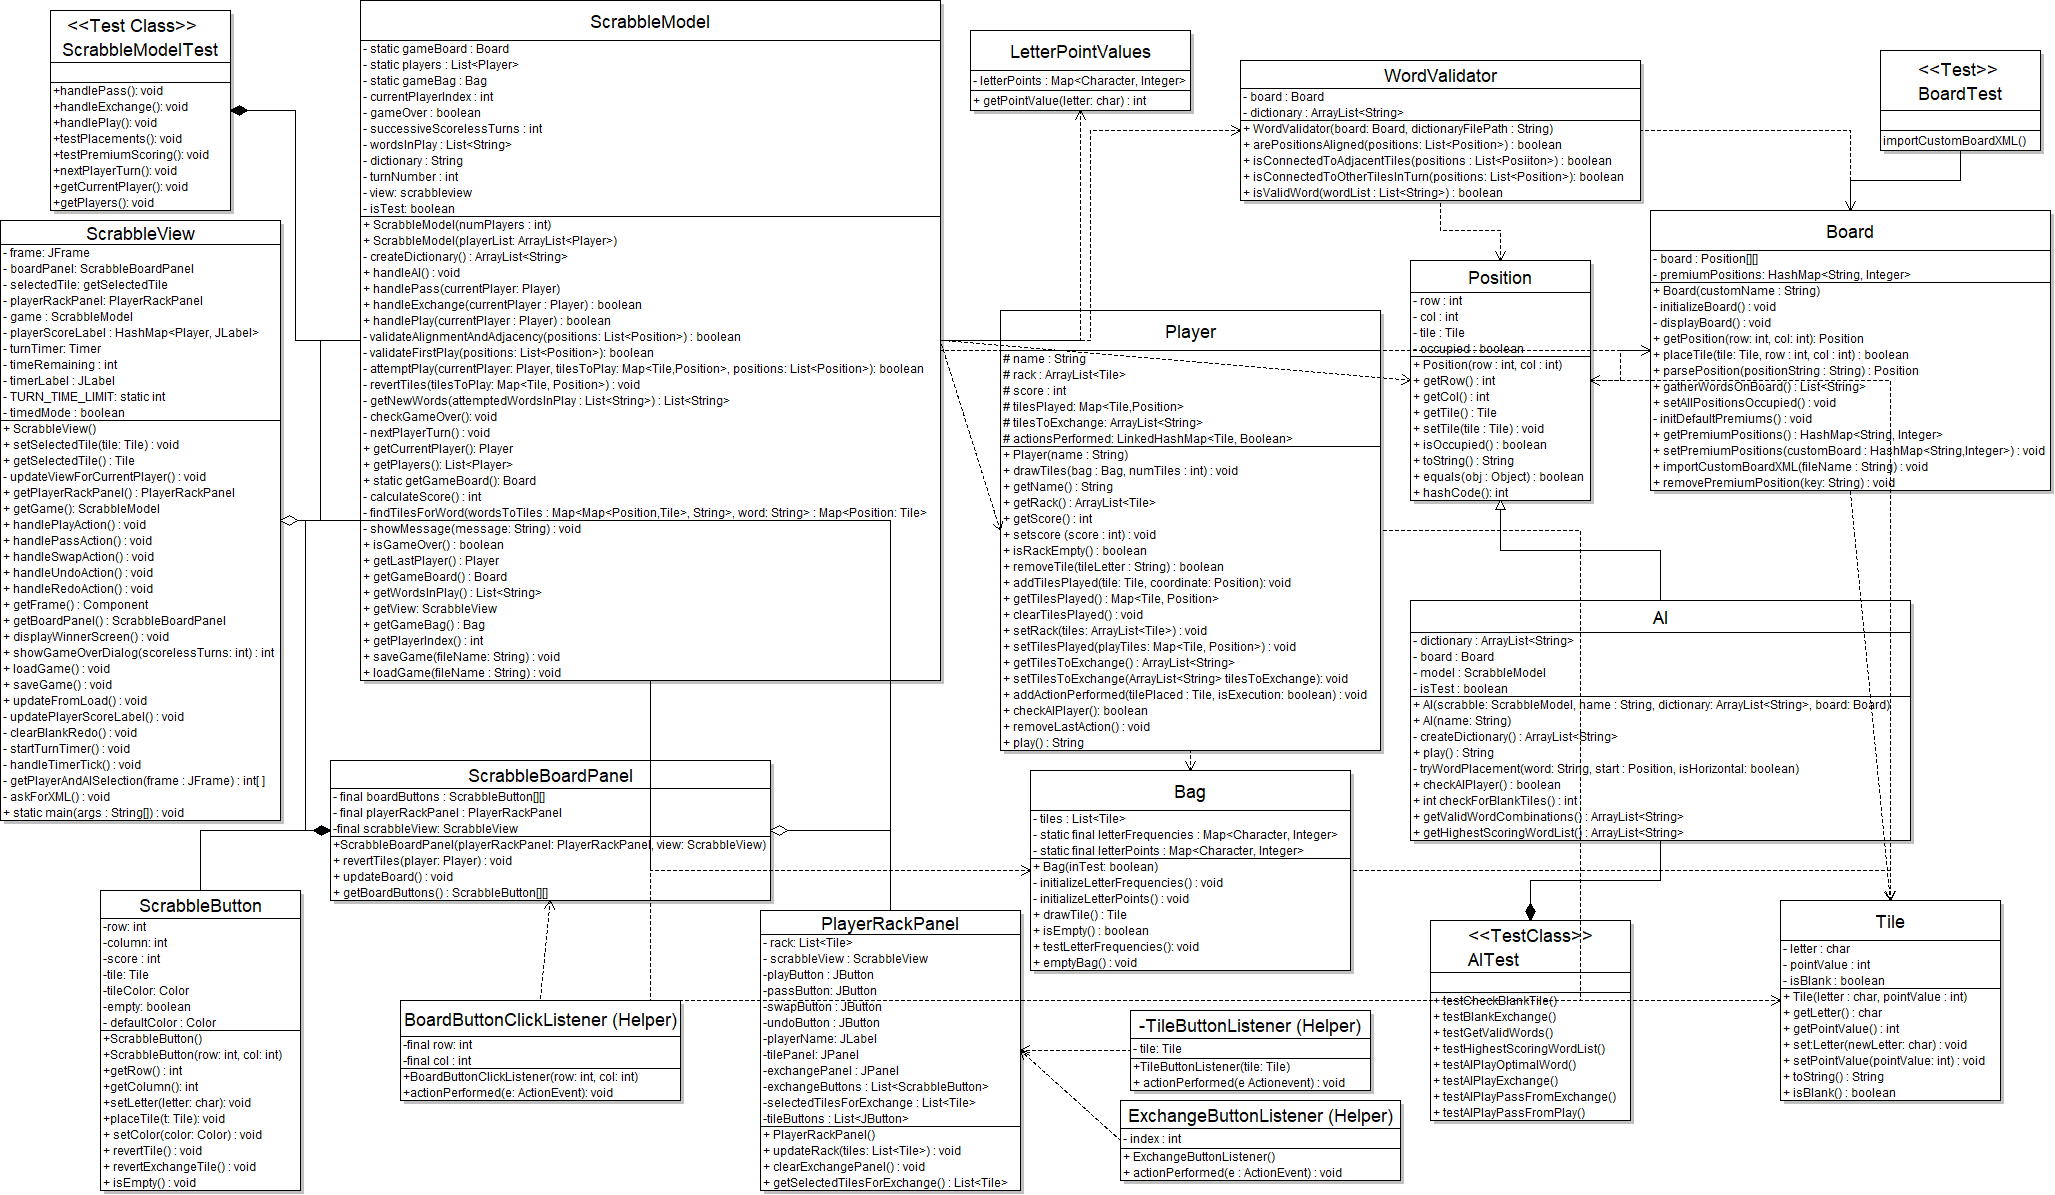
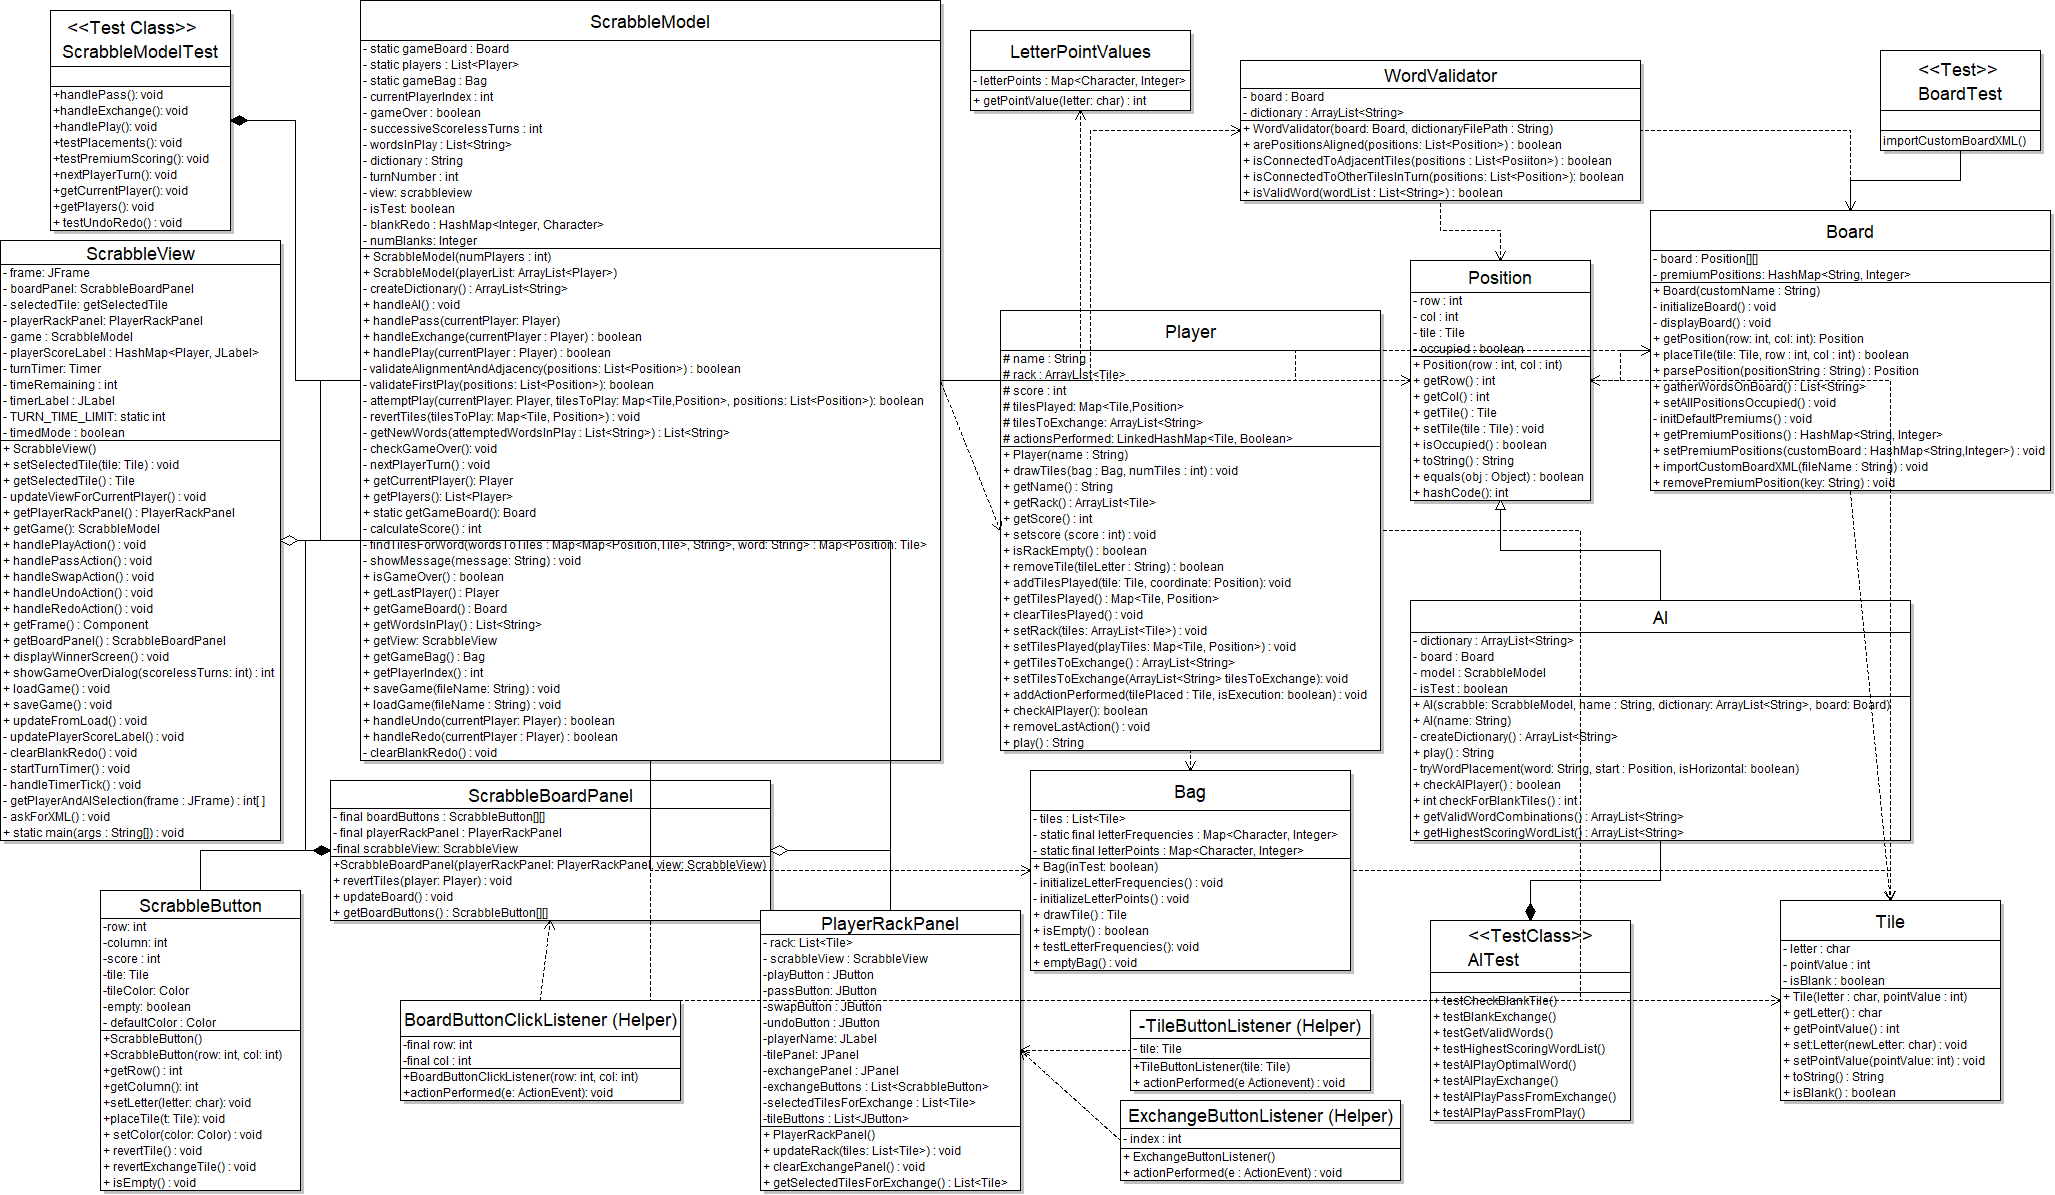
MILESTONE 4 COMPLETE Project Complete

Changed region(s): [[0.0, 0.0, 0.4672, 0.7741], [0.3737, 0.6192, 0.4672, 0.6502]]

diff --git a/src/ScrabbleModelTest.java b/src/ScrabbleModelTest.java
@@ -489,7 +489,7 @@ public class ScrabbleModelTest {
     /**
      * Test for the undo and redo functions for the game
      */
-    public void TestUndoRedo() {
+    public void testUndoRedo() {
         // Create a list of players
         ArrayList<Player> playerList = new ArrayList<Player>();
         Player player1 = new Player("Andrew");
